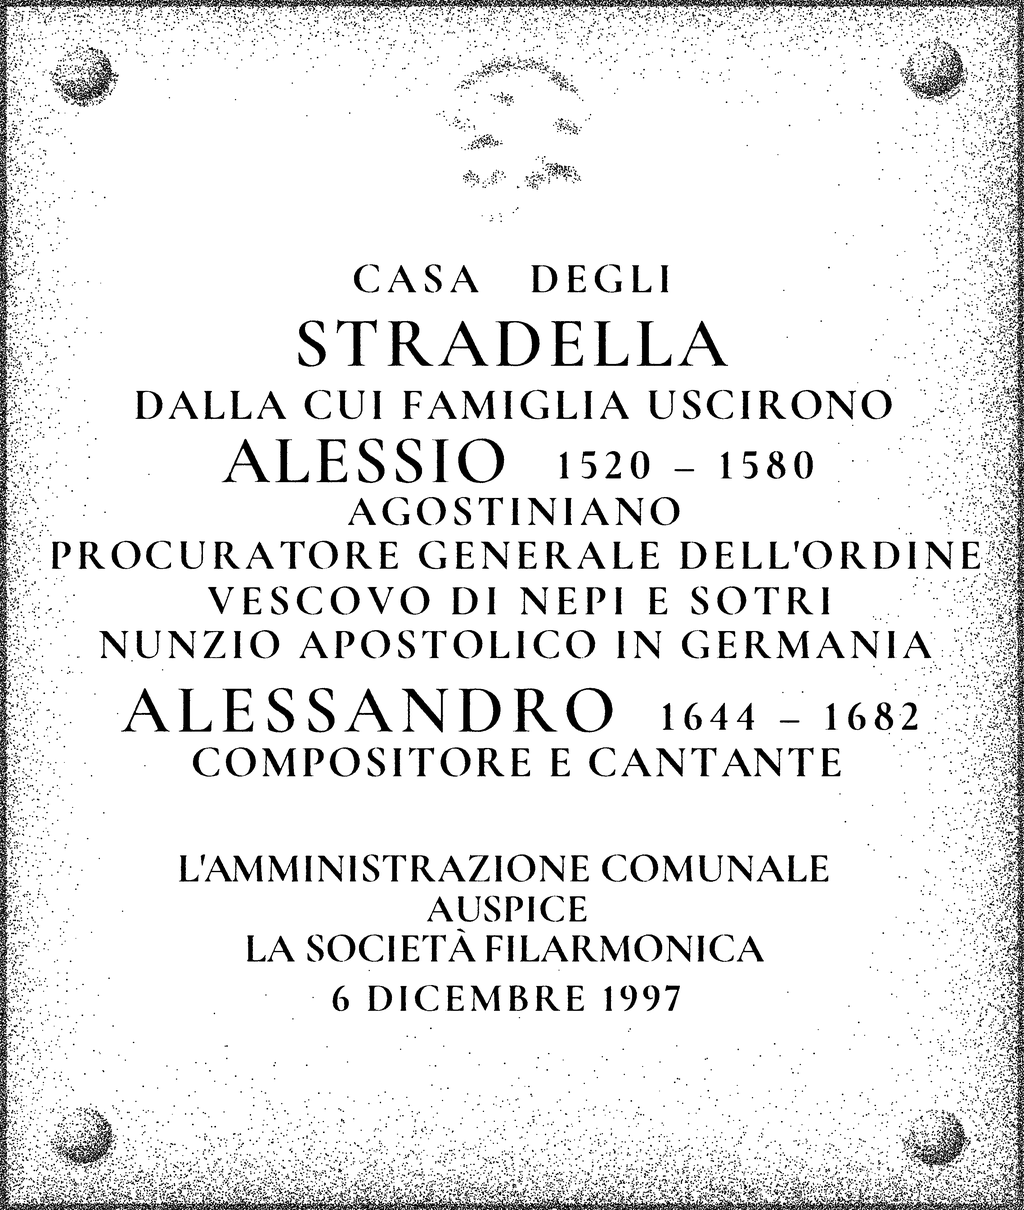
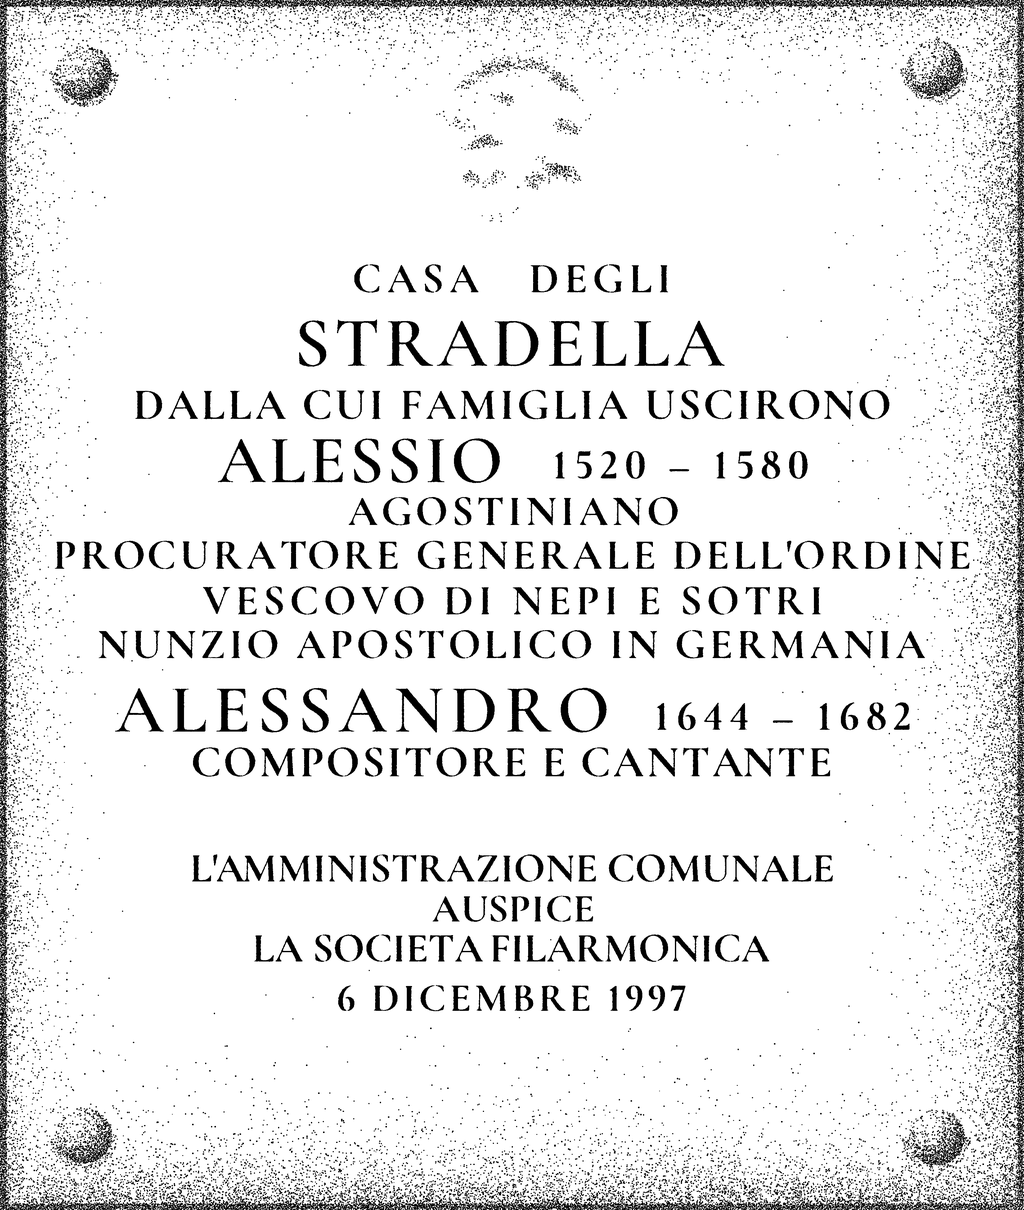
Lapide di Stradella: righe centrate sull'asse e misurate sulla foto, «SOTRI» e «SOCIETA» come sulla lapide

diff --git a/src/routes/articles/history/stradella/+page.svelte b/src/routes/articles/history/stradella/+page.svelte
@@ -123,7 +123,7 @@
     <figure class="inchiostro">
         <enhanced:img
             src={targaImg}
-            alt="Lapide con quattro borchie e la scritta: Casa degli Stradella, dalla cui famiglia uscirono Alessio, 1520-1580, agostiniano, procuratore generale dell'Ordine, vescovo di Nepi e Sutri, nunzio apostolico in Germania; Alessandro, 1644-1682, compositore e cantante. L'Amministrazione comunale, auspice la Società Filarmonica, 6 dicembre 1997"
+            alt="Lapide con quattro borchie e la scritta: Casa degli Stradella, dalla cui famiglia uscirono Alessio, 1520-1580, agostiniano, procuratore generale dell'Ordine, vescovo di Nepi e Sotri (sic), nunzio apostolico in Germania; Alessandro, 1644-1682, compositore e cantante. L'Amministrazione comunale, auspice la Società Filarmonica, 6 dicembre 1997"
             sizes="24rem"
             loading="lazy"
         />
